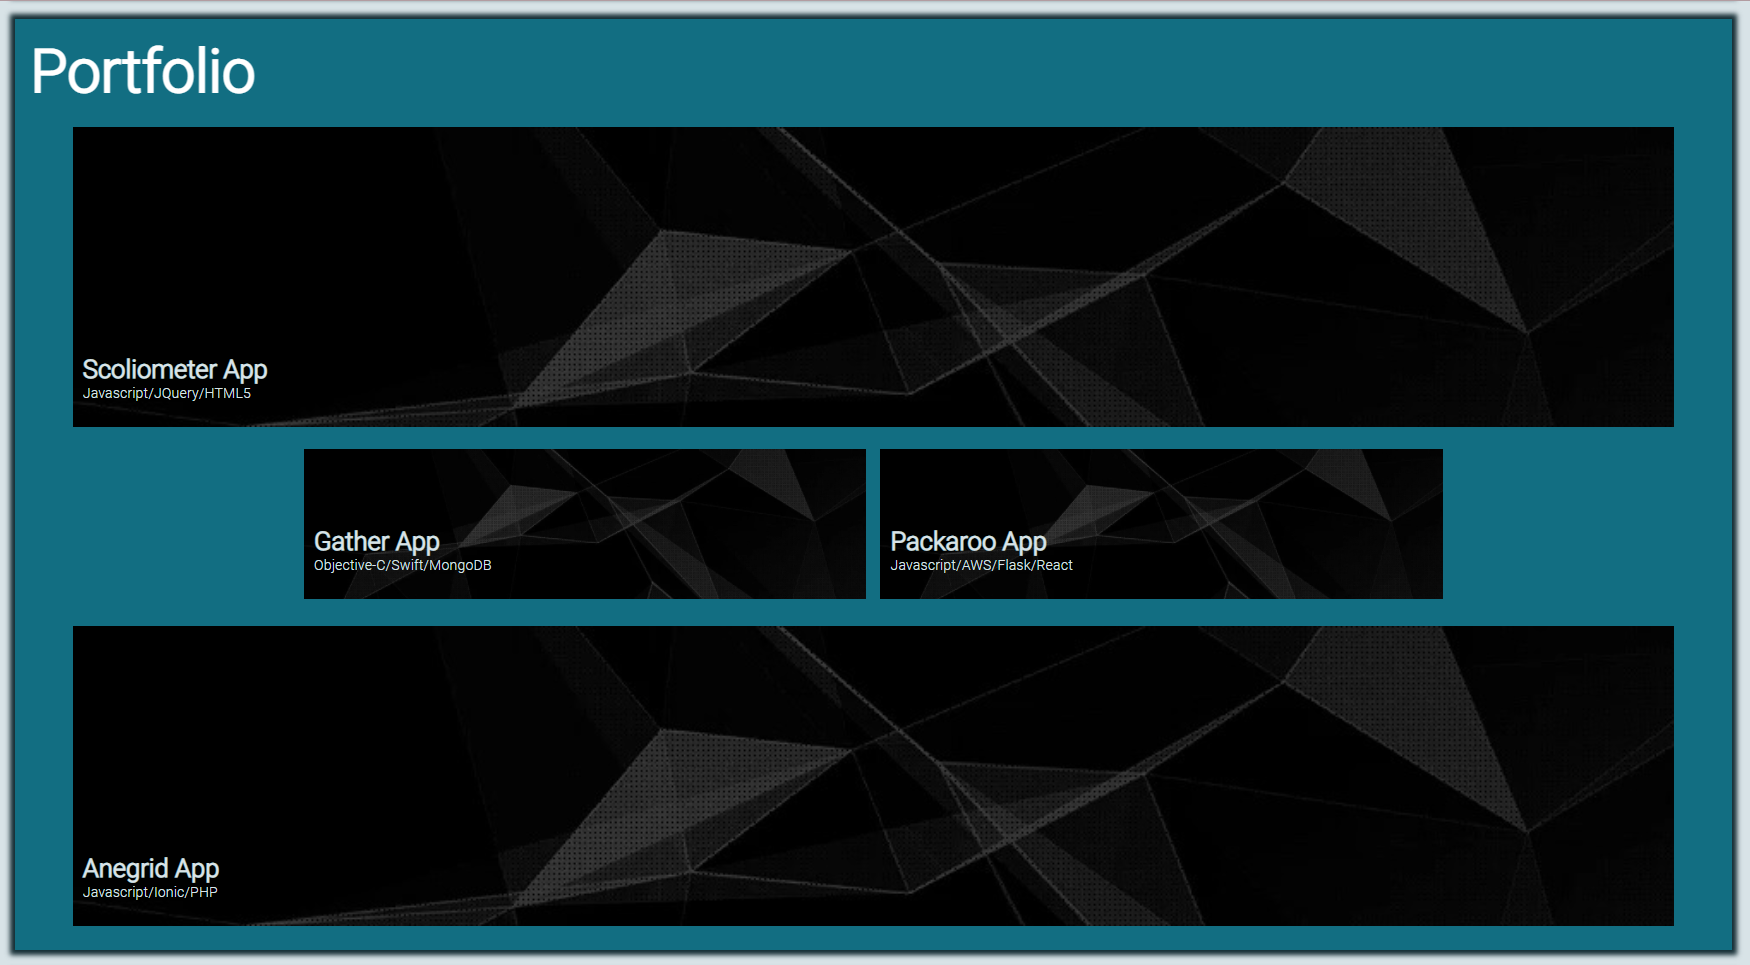
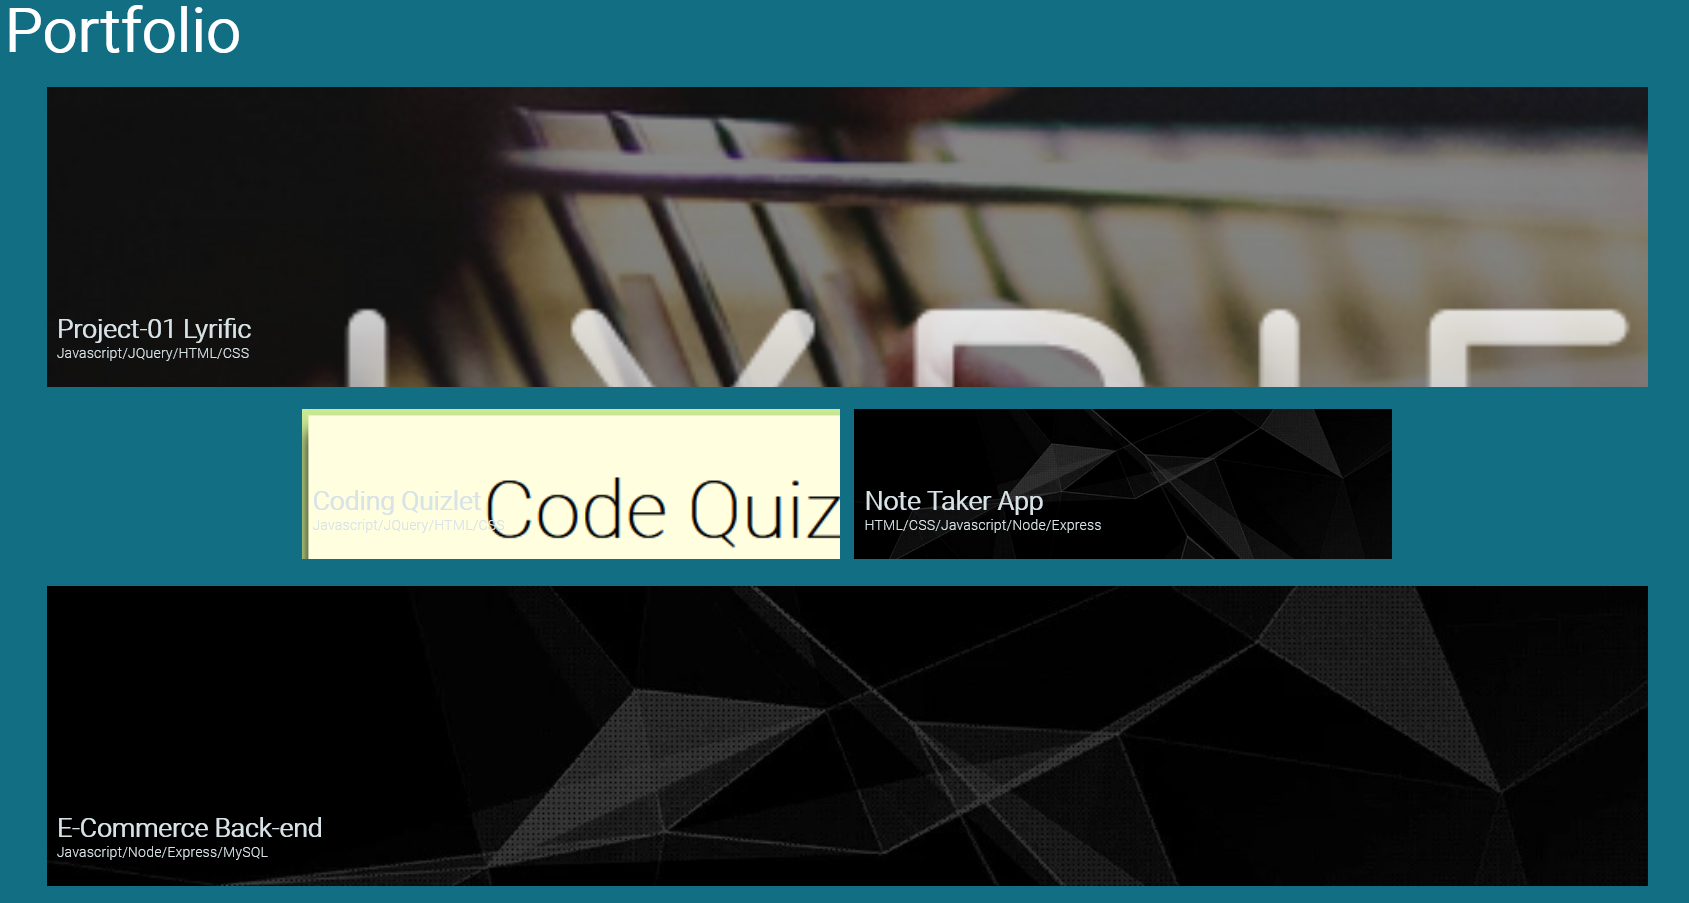
Updated Project Section

diff --git a/index.html b/index.html
@@ -72,13 +72,7 @@
             eveniet earum impedit voluptatibus sed aut deserunt unde cum eaque
             sapiente culpa? Libero, pariatur animi at, illo dolorum harum
             debitis sint delectus obcaecati quidem illum perferendis alias,
-            sequi assumenda reiciendis soluta iste magni voluptas excepturi
-            magnam voluptates sit nobis laboriosam. Recusandae maxime, omnis
-            dolore unde atque corrupti, possimus voluptatum maiores nihil id
-            nostrum ab non? Iusto facilis culpa atque, itaque nobis error? Iure
-            in assumenda dolorem dicta incidunt deserunt quidem repellat
-            corrupti veniam accusamus veritatis, et exercitationem maiores.
-            <br />
+            sequi assumenda reiciendis soluta.
           </p>
         </section>
 
@@ -110,26 +104,26 @@
               </div>
             </a>
             <a
-              href="https://devpost.com/software/packaroo"
+              href="https://github.com/KimShiHyun/Note-Taker-App"
               target="_blank"
               class="flex-item"
               id="dashboard"
             >
               <div>
-                <h3>Packaroo App</h3>
-                <span>Javascript/AWS/Flask/React</span>
+                <h3>Note Taker App</h3>
+                <span>HTML/CSS/Javascript/Node/Express</span>
               </div>
             </a>
 
             <a
-              href="https://devpost.com/software/anegrid"
+              href="https://github.com/KimShiHyun/Ecommerce-backend"
               target="_blank"
               class="flex-item"
               id="repository"
             >
               <div>
-                <h3>Anegrid App</h3>
-                <span>Javascript/Ionic/PHP</span>
+                <h3>E-Commerce Back-end</h3>
+                <span>Javascript/Node/Express/MySQL</span>
               </div>
             </a>
           </div>
